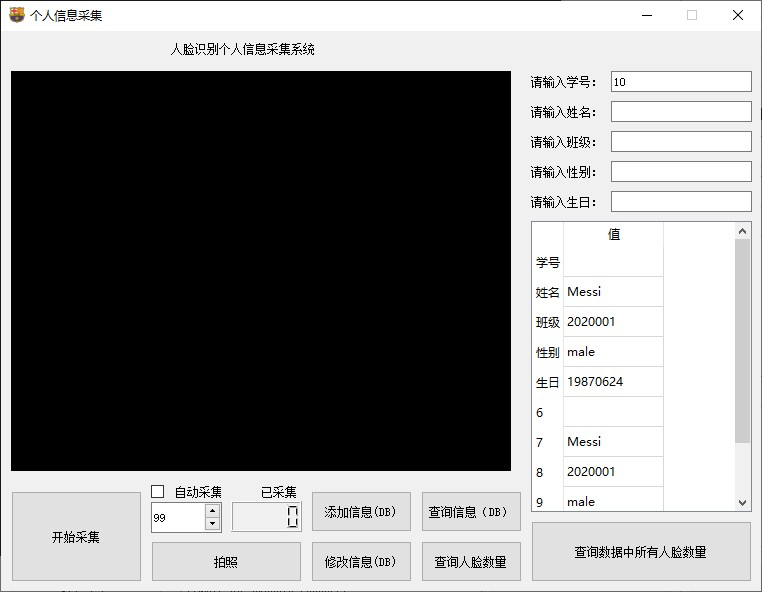
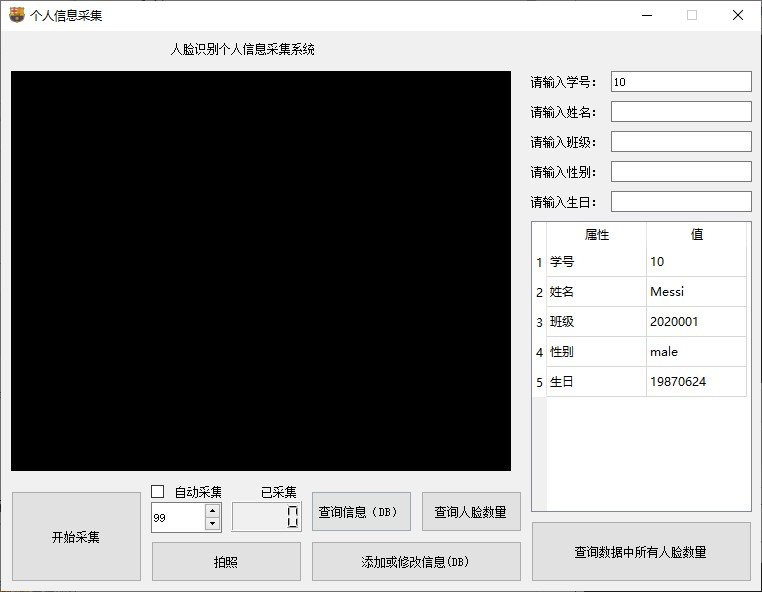
Update Images

diff --git a/README.md b/README.md
@@ -38,6 +38,12 @@
 
 ![rf_check_sys_info_collect_v2.0](./images/rf_check_sys_info_collect_v2.0.jpg)
 
+暂未完成的一部分功能说明：
+
+![Unfinished part of the function](./images/Unfinished part of the function.jpg)
+
+
+
 ---
 
 # 1. 项目简介及声明
